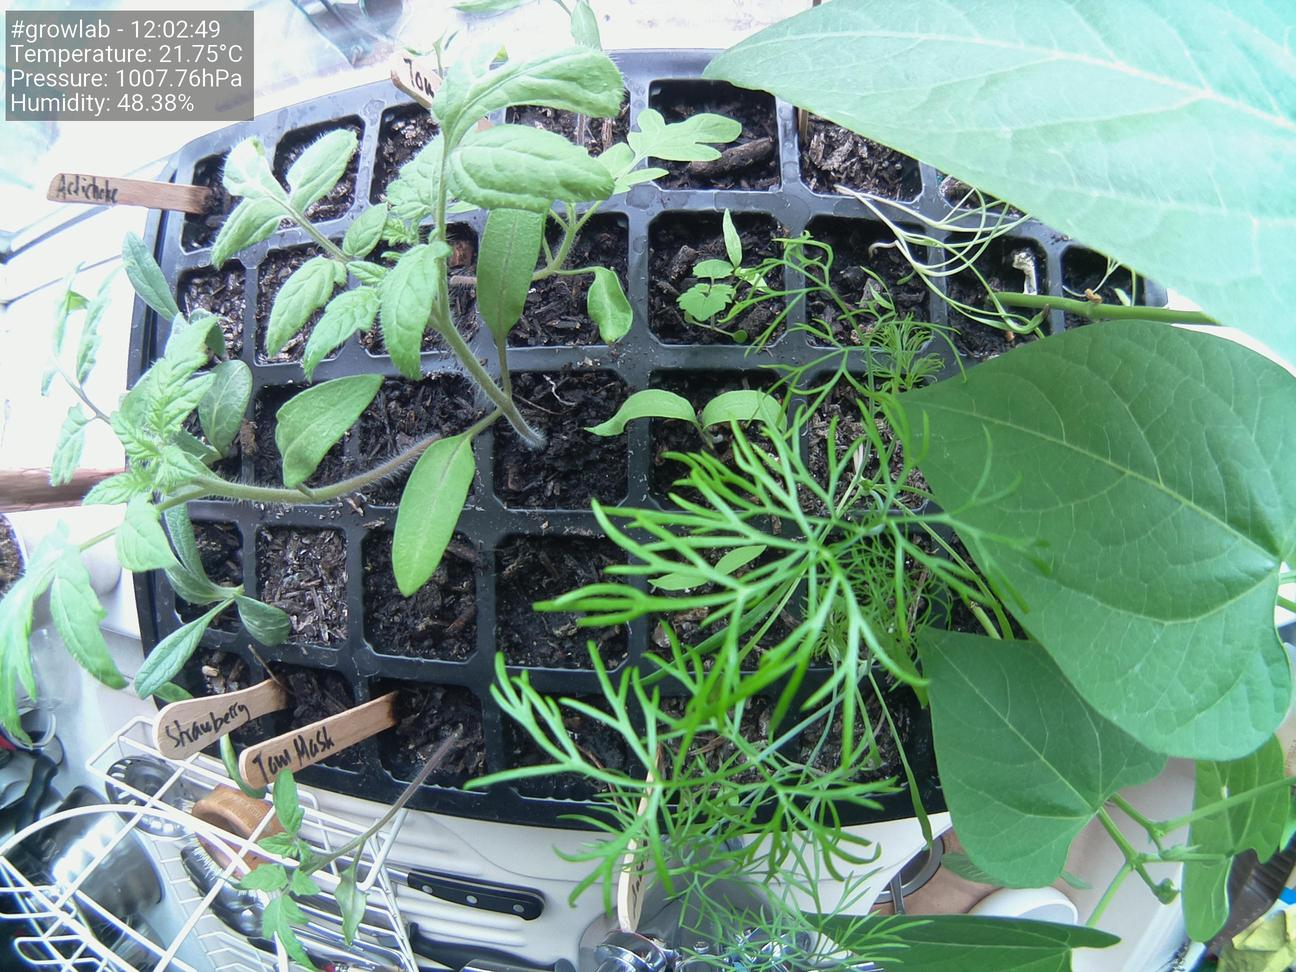
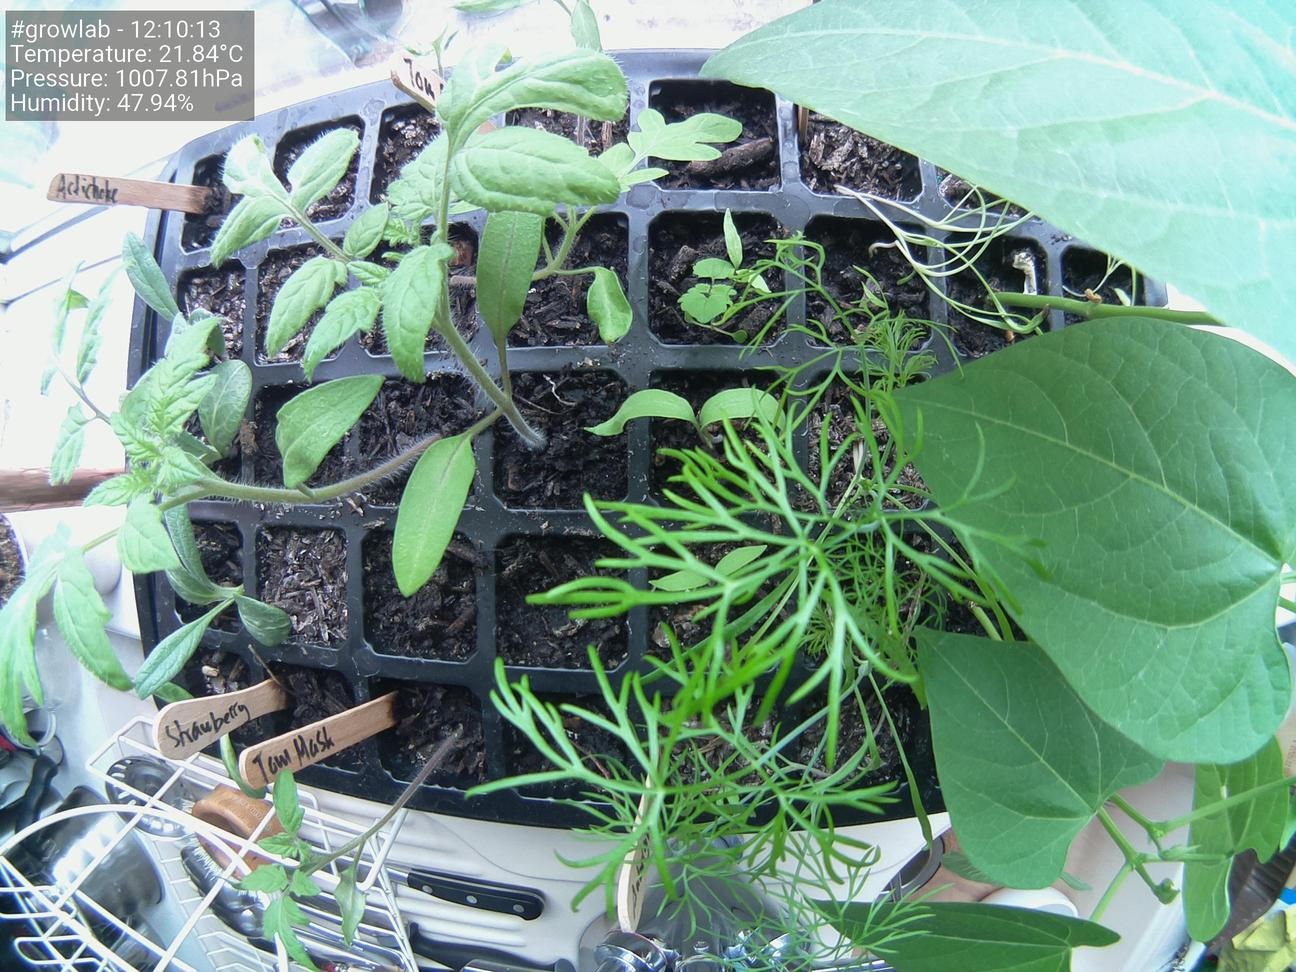
Update images at Wed 28 Apr 12:11:52 BST 2021

diff --git a/docs/index.html b/docs/index.html
@@ -38,19 +38,19 @@
                     <tbody>
                         <tr>
                             <td>Time</td>
-                            <td>12:02:49</td>
+                            <td>12:10:13</td>
                         </tr>
                         <tr>
                             <td>Temperature</td>
-                            <td>21.75°C</td>
+                            <td>21.84°C</td>
                         </tr>
                         <tr>
                             <td>Humidity</td>
-                            <td>48.38%</td>
+                            <td>47.94%</td>
                         </tr>
                         <tr>
                             <td>Pressure</td>
-                            <td>1007.76hPa</td>
+                            <td>1007.81hPa</td>
                         </tr>
                     </tbody>
                 </table>

diff --git a/app/README.md b/app/README.md
@@ -108,6 +108,32 @@ Test the code:
 python3 app.py
 ```
 
+### Serve a preview with GitHub pages
+
+Configure GitHub pages and / or a custom domain using the CNAME approach
+
+Set the folder for serving content to "docs"
+
+Generate an SSH key:
+
+```bash
+cd growlab/app
+mkdir -p .ssh
+
+ssh-keygen -f `pwd`/.ssh/id_rsa
+```
+
+Go to the repo settings and add the deploy key and check *Allow write access*
+
+```bash
+cd growlab/app
+python3 app.py
+cp html/* ../docs/
+git add ..
+git commit -s -m "Update images at `date`"
+GIT_SSH_COMMAND="ssh -i `pwd`/.ssh/id_rsa" git push origin master
+```
+
 ### Install growlab as a service
 
 Install the systemd service:
@@ -118,3 +144,5 @@ sudo cp growlab.service /etc/systemd/system
 sudo systemctl enable growlab
 sudo systemctl start growlab
 ```
+
+
